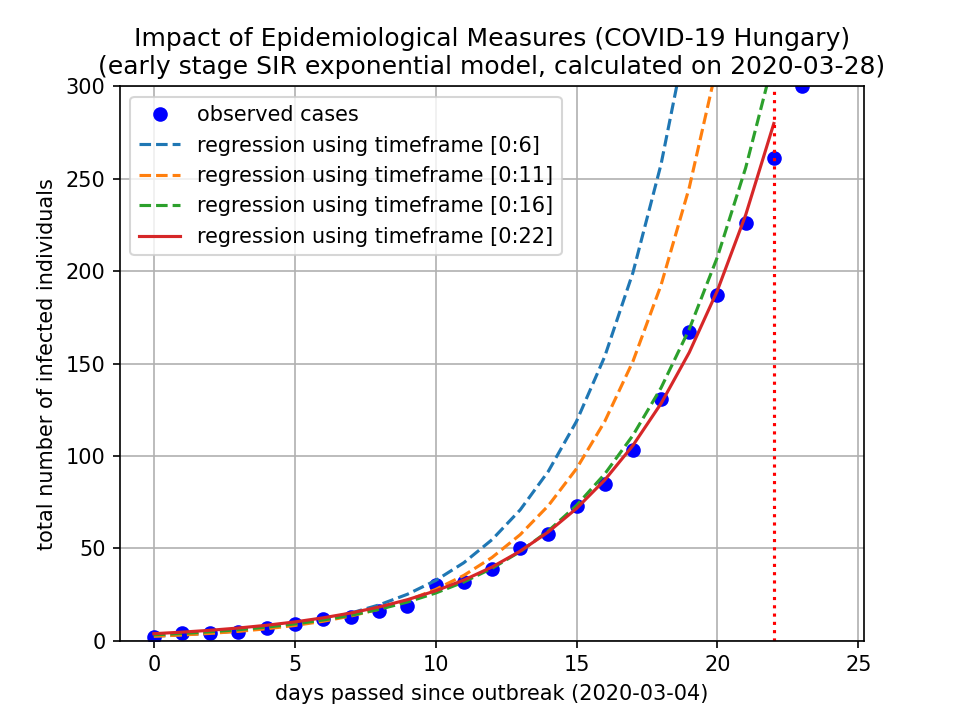
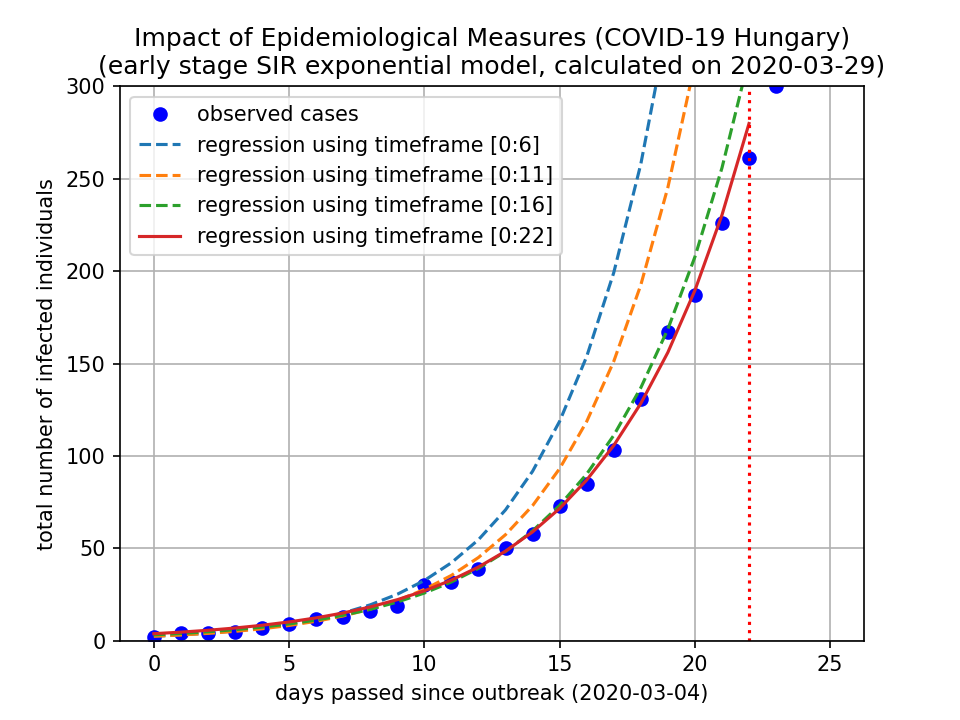
add auto-updater for data-hun.csv update csv to 2020-03-29

Changed region(s): [[0.2188, 0.1222, 0.8438, 0.9472], [0.8438, 0.8861, 0.9062, 0.9472], [0.5625, 0.8861, 0.625, 0.9472]]

diff --git a/update_csv.py b/update_csv.py
@@ -1,0 +1,25 @@
+#!/usr/bin/python
+#
+# update data-hun.csv:
+# https://hu.wikipedia.org/wiki/2020-as_COVID-19_koronav%C3%ADrus-j%C3%A1rv%C3%A1ny_Magyarorsz%C3%A1gon
+
+from bs4 import BeautifulSoup
+import requests
+import csv
+
+r = requests.get("https://hu.wikipedia.org/wiki/2020-as_COVID-19_koronav%C3%ADrus-j%C3%A1rv%C3%A1ny_Magyarorsz%C3%A1gon")
+soup = BeautifulSoup(r.content, "lxml")
+
+table = soup.find("table", {"class": "wikitable"})
+
+output_rows = []
+for table_row in table.findAll('tr'):
+    columns = table_row.findAll('td')
+    output_row = []
+    for column in columns:
+        output_row.append(column.text.strip())
+    output_rows.append(output_row)
+    
+with open('data-hun.csv', 'w') as csvfile:
+    writer = csv.writer(csvfile, delimiter=';')
+    writer.writerows(output_rows)

diff --git a/README.md b/README.md
@@ -8,7 +8,7 @@ during the early stage of the spreading.
 
 Regression models seem to fit almost accurately.
 
-Regression models for Hungary as of 2020-03-28:
+Regression models for Hungary as of 2020-03-29:
 
 ![Impact of Epidemiological Measures (COVID-19, Hungary)](plot-hun.png)
 
